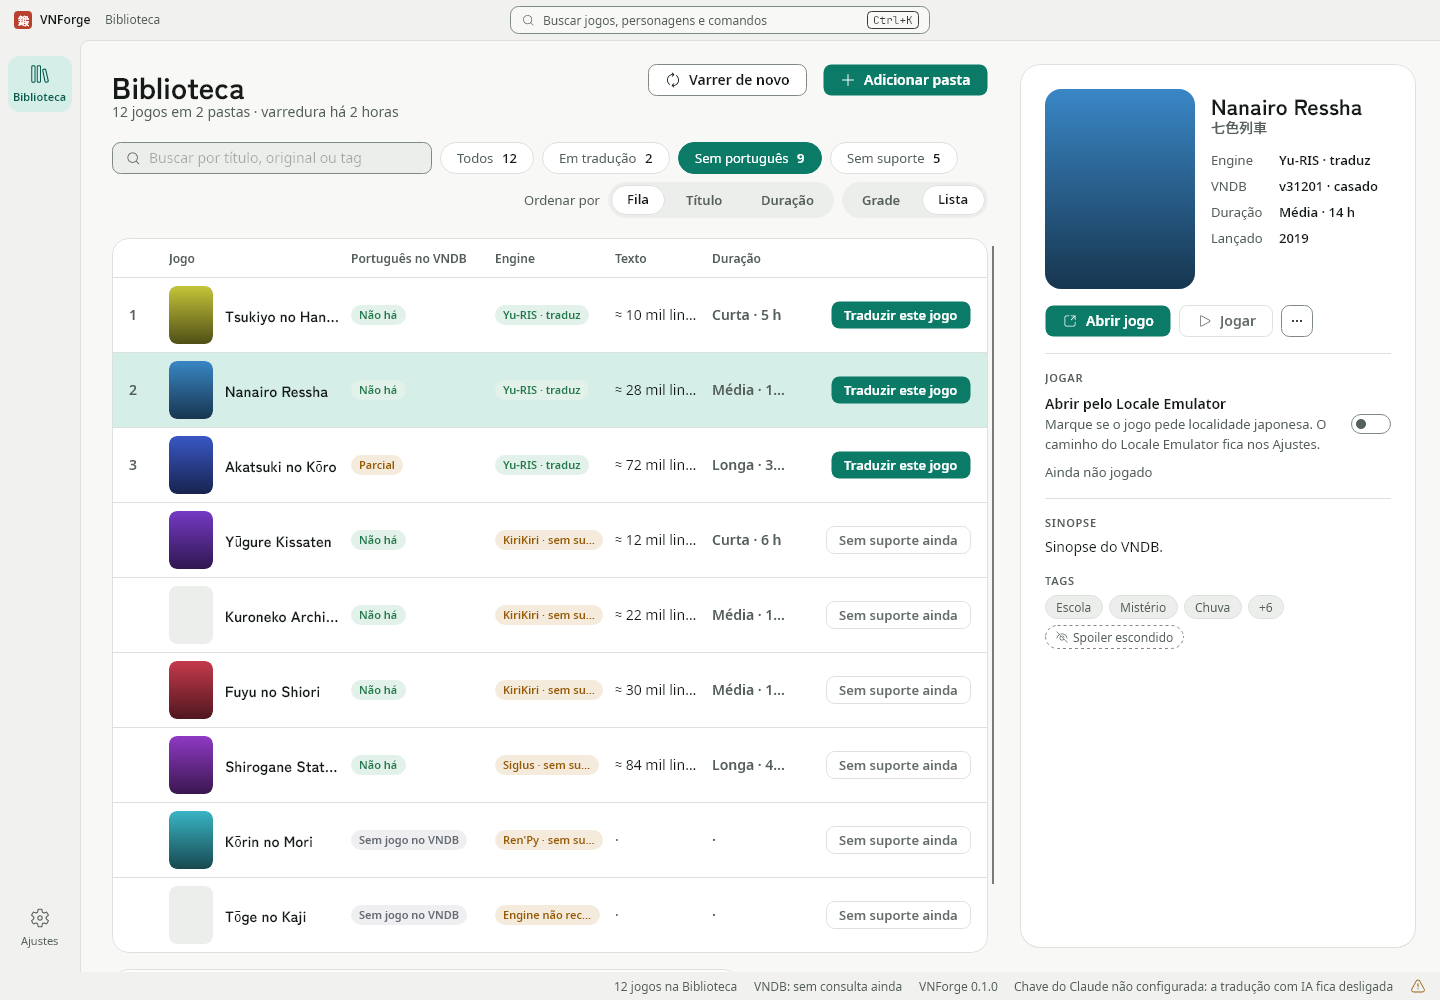
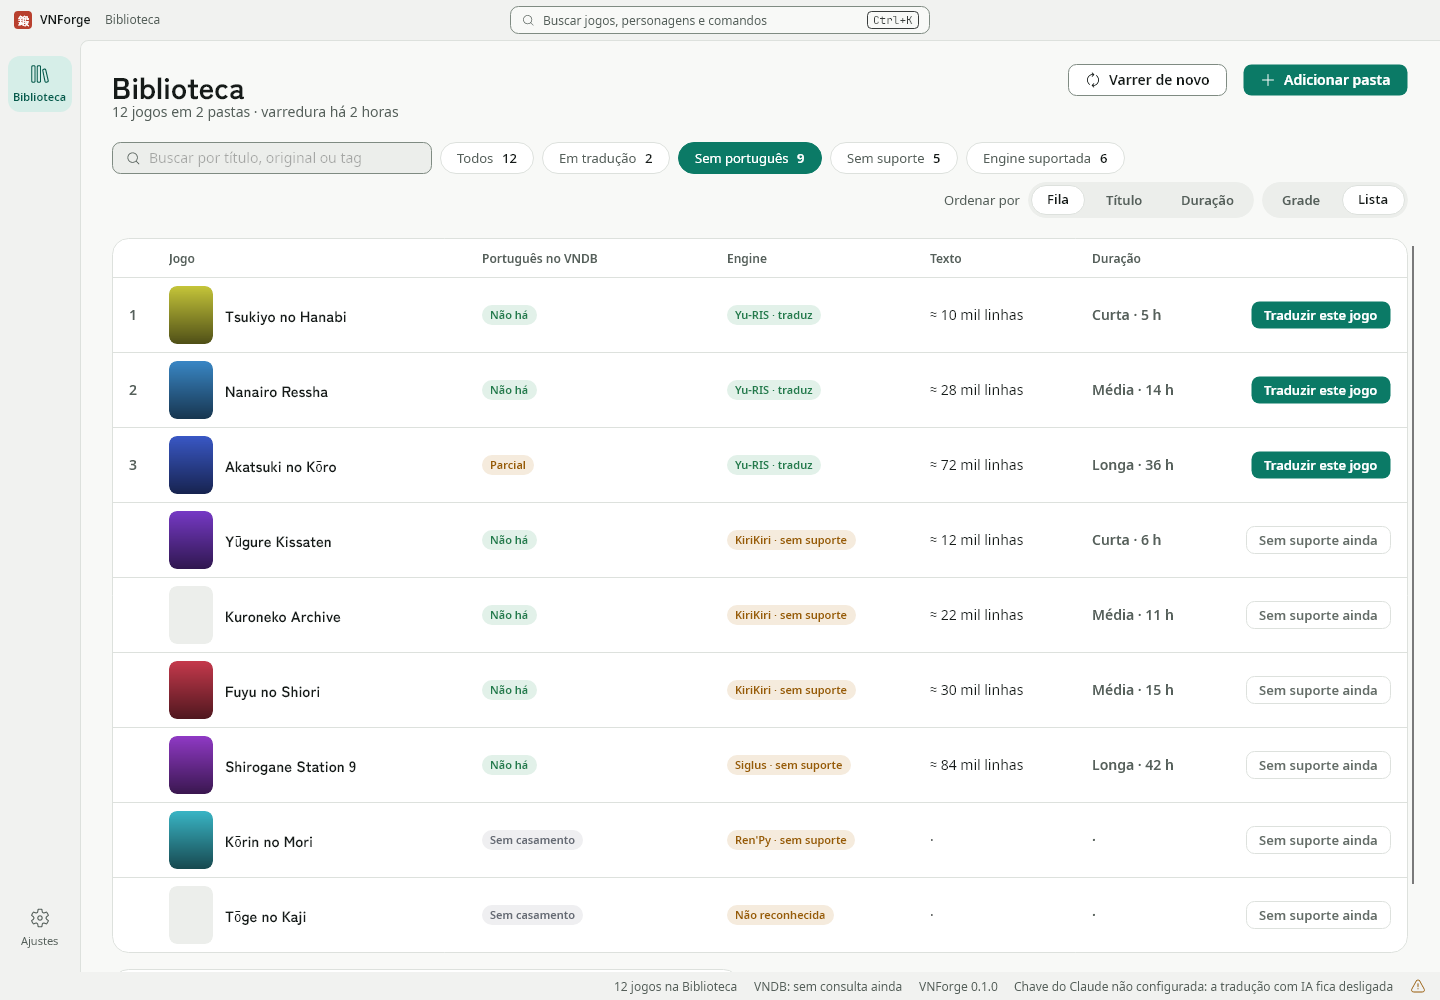
feat: Traduzir este jogo leva o VNDB confirmado ao assistente, chip Engine suportada e colunas da fila que cabem com a gaveta (Refs #551)

diff --git a/src/VNForge.App/ViewModels/NewProjectWizardViewModel.Vndb.cs b/src/VNForge.App/ViewModels/NewProjectWizardViewModel.Vndb.cs
@@ -225,6 +225,7 @@ public sealed partial class NewProjectWizardViewModel
     private readonly Func<VndbLink, string?> translatedSynopsis;
     private VndbLink? confirmedLink;
     private string? vndbSearchedFolder;
+    private string? knownVndbId;
     private CancellationTokenSource? vndbCts;
 
     /// <summary>Os resultados da busca no VNDB, o mais provável primeiro.</summary>
@@ -315,6 +316,18 @@ public sealed partial class NewProjectWizardViewModel
         }
 
         vndbSearchedFolder = GameFolder;
+        if (knownVndbId is { } known)
+        {
+            // O jogo veio da Biblioteca com o casamento já confirmado: traz a ficha direto, sem buscar de novo. Se o VNDB não responde, cai na busca de sempre.
+            knownVndbId = null;
+            if (vndb is not null && await ConfirmAsync(string.Empty, token => VndbProjectLinker.BuildAsync(vndb, known, token)))
+            {
+                return;
+            }
+
+            ErrorMessage = null;
+        }
+
         IsBusy = true;
         string? title = null;
         try
@@ -457,38 +470,47 @@ public sealed partial class NewProjectWizardViewModel
             return;
         }
 
+        await ConfirmAsync(chosen.Title, async token => VndbProjectLinker.From(chosen.Candidate.VisualNovel, await vndb.GetCharactersAsync(chosen.Candidate.VisualNovel.Id, token)));
+    }
+
+    /// <summary>Traz a ficha (<paramref name="load"/>) e mostra o que chega ao projeto. Devolve se chegou à confirmação; no erro volta à lista de resultados.</summary>
+    private async Task<bool> ConfirmAsync(string title, Func<CancellationToken, Task<VndbLink>> load)
+    {
         Stage = VndbStage.Confirming;
         VndbHeadline = "Trazendo os personagens";
-        VndbDetail = chosen.Title;
+        VndbDetail = title;
         IsBusy = true;
         using var cts = vndbCts = new CancellationTokenSource();
         try
         {
-            var characters = await vndb.GetCharactersAsync(chosen.Candidate.VisualNovel.Id, cts.Token);
+            var link = await load(cts.Token);
             if (cts.IsCancellationRequested)
             {
-                return;
+                return false;
             }
 
             var gameNames = await ReadGameNamesAsync(cts.Token);
             if (cts.IsCancellationRequested)
             {
-                return;
+                return false;
             }
 
-            confirmedLink = VndbProjectLinker.From(chosen.Candidate.VisualNovel, characters);
-            Preview = VndbPreview.From(confirmedLink, gameNames, translatedSynopsis(confirmedLink));
+            confirmedLink = link;
+            Preview = VndbPreview.From(link, gameNames, translatedSynopsis(link));
             Stage = VndbStage.Preview;
+            return true;
         }
         catch (OperationCanceledException) when (cts.IsCancellationRequested)
         {
             // Quem cancelou já cuidou do estado.
+            return false;
         }
         catch (VNForgeException e) when (!cts.IsCancellationRequested)
         {
             ErrorMessage = $"{e.Message} Tente de novo ou siga sem o VNDB.";
             Stage = VndbStage.Choosing;
             VndbHeadline = ChoosingHeadline();
+            return false;
         }
         finally
         {
@@ -568,6 +590,15 @@ public sealed partial class NewProjectWizardViewModel
 
         confirmedLink = null;
         Preview = null;
+        if (Candidates.Count == 0)
+        {
+            // A ficha veio direto do casamento da Biblioteca, sem lista de resultados para voltar: oferece buscar.
+            VndbHeadline = "Escolha outro jogo no VNDB";
+            VndbDetail = "Busque por um título ou siga sem o VNDB.";
+            Stage = VndbStage.Empty;
+            return true;
+        }
+
         Stage = VndbStage.Choosing;
         return true;
     }

diff --git a/tests/VNForge.App.Tests/Rendering/LibraryRenderTests.cs b/tests/VNForge.App.Tests/Rendering/LibraryRenderTests.cs
@@ -41,8 +41,8 @@ public sealed class LibraryRenderTests(HeadlessFixture fixture) : IClassFixture<
             Assert.Equal(["Grade", "Lista"], window.GetVisualDescendants().OfType<ListBox>().Single(l => l.Name == "LayoutSwitch").GetVisualDescendants().OfType<TextBlock>().Select(t => t.Text));
 
             var chips = window.GetVisualDescendants().OfType<FilterChip>().ToList();
-            Assert.Equal(["Todos", "Em tradução", "Sem português", "Sem suporte"], chips.Select(c => c.Label));
-            Assert.Equal([12, 2, 9, 5], chips.Select(c => c.Count));
+            Assert.Equal(["Todos", "Em tradução", "Sem português", "Sem suporte", "Engine suportada"], chips.Select(c => c.Label));
+            Assert.Equal([12, 2, 9, 5, 6], chips.Select(c => c.Count));
             Assert.True(chips[0].IsChecked);
 
             foreach (var expected in new[] { "Yu-RIS", "Siglus · sem suporte", "KiriKiri · sem suporte", "Ren'Py · sem suporte", "Engine não reconhecida", "Conteúdo adulto escondido", "18+" })
@@ -231,7 +231,13 @@ public sealed class LibraryRenderTests(HeadlessFixture fixture) : IClassFixture<
 
     [Theory]
     [MemberData(nameof(Themes))]
-    public async Task Lista_mostra_a_fila_de_traducao_com_o_portugues_a_engine_o_texto_e_a_acao(string themeName)
+    public Task Lista_mostra_a_fila_de_traducao_com_o_portugues_a_engine_o_texto_e_a_acao(string themeName) => MostrarFila(themeName, gaveta: false);
+
+    [Theory]
+    [MemberData(nameof(Themes))]
+    public Task Fila_com_a_gaveta_aberta_cabe_sem_reticencias_nas_colunas_de_texto_e_duracao(string themeName) => MostrarFila(themeName, gaveta: true);
+
+    private async Task MostrarFila(string themeName, bool gaveta)
     {
         var theme = ThemeOf(themeName);
         var checkedAt = LibrarySamples.Now.AddHours(-1);
@@ -244,7 +250,10 @@ public sealed class LibraryRenderTests(HeadlessFixture fixture) : IClassFixture<
             library.SelectFilter(LibraryFilter.NoPortuguese);
             library.SelectedSort = library.Sorts[0];
             library.SelectedLayout = library.Layouts[1];
-            library.Select(library.Cards.Single(c => c.Title == "Nanairo Ressha"));
+            if (gaveta)
+            {
+                library.Select(library.Cards.Single(c => c.Title == "Nanairo Ressha"));
+            }
         }, (window, vm) =>
         {
             var texts = Texts(window);
@@ -259,11 +268,11 @@ public sealed class LibraryRenderTests(HeadlessFixture fixture) : IClassFixture<
             }
 
             var rows = window.GetVisualDescendants().OfType<Border>().Where(b => b.IsEffectivelyVisible && b.Classes.Contains("qrow")).ToList();
-            Assert.Single(rows, r => r.Classes.Contains("sel"));
+            Assert.Equal(gaveta ? 1 : 0, rows.Count(r => r.Classes.Contains("sel")));
             Assert.Equal(3, window.GetVisualDescendants().OfType<Button>().Count(b => b.IsEffectivelyVisible && b.Classes.Contains("accent") && b.Classes.Contains("sm")));
 
             ScreenRenderer.Settle(window);
-            ScreenRenderer.Save(window, RenderOutput.PathFor(ScreenRenderer.FileName("biblioteca-fila", theme)));
+            ScreenRenderer.Save(window, RenderOutput.PathFor(ScreenRenderer.FileName(gaveta ? "biblioteca-fila-gaveta" : "biblioteca-fila", theme)));
         }, games: games);
     }
 

diff --git a/src/VNForge.Core/Library/LibraryListing.cs b/src/VNForge.Core/Library/LibraryListing.cs
@@ -18,16 +18,20 @@ public enum LibraryFilter
 
     /// <summary>A engine foi reconhecida por assinatura de arquivo mas o VNForge ainda não a traduz. Engine que nem isso foi reconhecida não entra.</summary>
     Unsupported,
+
+    /// <summary>A engine é uma que o VNForge traduz.</summary>
+    Supported,
 }
 
 /// <summary>A contagem de cada chip de filtro.</summary>
-public sealed record LibraryCounts(int All, int InTranslation, int NoPortuguese, int Unsupported)
+public sealed record LibraryCounts(int All, int InTranslation, int NoPortuguese, int Unsupported, int Supported = 0)
 {
     public int Of(LibraryFilter filter) => filter switch
     {
         LibraryFilter.InTranslation => InTranslation,
         LibraryFilter.NoPortuguese => NoPortuguese,
         LibraryFilter.Unsupported => Unsupported,
+        LibraryFilter.Supported => Supported,
         _ => All,
     };
 }
@@ -44,6 +48,7 @@ public static class LibraryListing
             LibraryFilter.InTranslation => game.ProjectPath is not null && (percent ?? 0) < 100,
             LibraryFilter.NoPortuguese => game.ProjectPath is null && game.CurrentPortuguese?.Status != PortugueseStatus.Complete,
             LibraryFilter.Unsupported => game.Engine.Source == LibraryEngineSource.Signature,
+            LibraryFilter.Supported => game.Engine.Translatable,
             _ => true,
         };
     }
@@ -52,7 +57,7 @@ public static class LibraryListing
     {
         ArgumentNullException.ThrowIfNull(games);
         ArgumentNullException.ThrowIfNull(percentOf);
-        int all = 0, inTranslation = 0, noPortuguese = 0, unsupported = 0;
+        int all = 0, inTranslation = 0, noPortuguese = 0, unsupported = 0, supported = 0;
         foreach (var game in games)
         {
             var percent = percentOf(game);
@@ -60,9 +65,10 @@ public static class LibraryListing
             inTranslation += Matches(game, LibraryFilter.InTranslation, percent) ? 1 : 0;
             noPortuguese += Matches(game, LibraryFilter.NoPortuguese, percent) ? 1 : 0;
             unsupported += Matches(game, LibraryFilter.Unsupported, percent) ? 1 : 0;
+            supported += Matches(game, LibraryFilter.Supported, percent) ? 1 : 0;
         }
 
-        return new LibraryCounts(all, inTranslation, noPortuguese, unsupported);
+        return new LibraryCounts(all, inTranslation, noPortuguese, unsupported, supported);
     }
 
     /// <summary>

diff --git a/tests/VNForge.App.Tests/NewProjectWizardVndbTests.cs b/tests/VNForge.App.Tests/NewProjectWizardVndbTests.cs
@@ -65,6 +65,29 @@ public sealed class NewProjectWizardVndbTests : IDisposable
     }
 
     [Fact]
+    public async Task Jogo_da_Biblioteca_com_casamento_confirmado_traz_a_ficha_direto_sem_buscar_e_Voltar_oferece_a_busca()
+    {
+        var catalog = Catalog(Vn("v1", "Amaoto no Hakoniwa", Title), Vn("v2", "Outro", "別の"));
+        var vm = Create(catalog);
+        await vm.SetGameFolderAsync(game, "v1");
+        vm.SetProjectDirectory(Path.Combine(temp.Path, "minha-vn"));
+
+        await vm.NextCommand.ExecuteAsync(null);
+
+        Assert.Equal(WizardStep.Vndb, vm.Step);
+        Assert.Equal(VndbStage.Preview, vm.Stage);
+        Assert.Equal("v1", vm.ConfirmedVndb?.VisualNovelId);
+        Assert.Equal("Amaoto no Hakoniwa, v1", vm.Preview!.Label);
+        Assert.DoesNotContain(catalog.Calls, c => c.Contains("Search", StringComparison.Ordinal));
+
+        vm.BackCommand.Execute(null);
+
+        Assert.Equal(VndbStage.Empty, vm.Stage);
+        Assert.Null(vm.ConfirmedVndb);
+        Assert.Equal(WizardStep.Vndb, vm.Step);
+    }
+
+    [Fact]
     public async Task Sem_resultado_que_combine_com_a_pasta_nada_vem_marcado_e_avancar_espera_a_escolha()
     {
         var vm = await AtVndbStepAsync(Catalog(Vn("v1", "Outro titulo", "雨音の箱庭 外伝")));

diff --git a/src/VNForge.App/ViewModels/LibraryQueueRowViewModel.cs b/src/VNForge.App/ViewModels/LibraryQueueRowViewModel.cs
@@ -23,7 +23,7 @@ public sealed class LibraryQueueRowViewModel(LibraryCardViewModel card, Translat
         PortugueseStatus.Partial => "Parcial",
         PortugueseStatus.Complete => "Completa",
         _ when Entry.Game.IsConfirmed => "Não conferido",
-        _ => "Sem jogo no VNDB",
+        _ => "Sem casamento",
     };
 
     /// <summary>O tom da pílula, na chave que o estilo <c>lib-pill</c> lê: o que ainda falta traduzir é "ok" (verde), o que já existe em parte ou por inteiro é "warn".</summary>
@@ -34,7 +34,12 @@ public sealed class LibraryQueueRowViewModel(LibraryCardViewModel card, Translat
         _ => string.Empty,
     };
 
-    public string EngineText => Entry.Game.Engine.Translatable ? $"{Entry.Game.Engine.Name} · traduz" : LibraryCards.ChipText(Entry.Game.Engine);
+    public string EngineText => Entry.Game.Engine.Source switch
+    {
+        LibraryEngineSource.Engine => $"{Entry.Game.Engine.Name} · traduz",
+        LibraryEngineSource.Signature => LibraryCards.ChipText(Entry.Game.Engine),
+        _ => "Não reconhecida",
+    };
 
     public string EngineTone => Entry.Game.Engine.Translatable ? "ok" : "warn";
 

diff --git a/src/VNForge.App/ViewModels/MainWindowViewModel.cs b/src/VNForge.App/ViewModels/MainWindowViewModel.cs
@@ -834,7 +834,7 @@ public sealed partial class MainWindowViewModel : ObservableObject
     }
 
     /// <summary>Troca a página pelo assistente de novo projeto; ao terminar ou cancelar volta ao Início, e um projeto criado é aberto.</summary>
-    private void ShowWizard(Func<NewProjectWizardViewModel>? create, string? gameFolder = null)
+    private void ShowWizard(Func<NewProjectWizardViewModel>? create, string? gameFolder = null, string? vndbId = null)
     {
         if (create is null)
         {
@@ -845,7 +845,7 @@ public sealed partial class MainWindowViewModel : ObservableObject
         wizard.PropertyChanged += OnWizardVndbChanged;
         if (gameFolder is not null)
         {
-            WizardPreparing = wizard.SetGameFolderAsync(gameFolder);
+            WizardPreparing = wizard.SetGameFolderAsync(gameFolder, vndbId);
         }
 
         wizard.BudgetSaved += (_, _) => Settings.ReloadAppSettings();

diff --git a/tests/VNForge.App.Tests/LibraryViewModelTests.cs b/tests/VNForge.App.Tests/LibraryViewModelTests.cs
@@ -68,8 +68,8 @@ public sealed class LibraryViewModelTests : IDisposable
         Assert.True(vm.HasGames);
         Assert.Equal(12, vm.Cards.Count);
         Assert.Equal("Akatsuki no Kōro", vm.Cards[0].Title);
-        Assert.Equal(["Todos", "Em tradução", "Sem português", "Sem suporte"], vm.Filters.Select(f => f.Label));
-        Assert.Equal([12, 2, 9, 5], vm.Filters.Select(f => f.Count));
+        Assert.Equal(["Todos", "Em tradução", "Sem português", "Sem suporte", "Engine suportada"], vm.Filters.Select(f => f.Label));
+        Assert.Equal([12, 2, 9, 5, 6], vm.Filters.Select(f => f.Count));
         Assert.Equal("12 jogos em 2 pastas · varredura há 2 horas", vm.Subtitle);
         Assert.Equal("12 jogos na Biblioteca", vm.StatusText);
         Assert.Null(vm.ErrorMessage);

diff --git a/tests/VNForge.Core.Tests/Library/LibraryScreenModelsTests.cs b/tests/VNForge.Core.Tests/Library/LibraryScreenModelsTests.cs
@@ -252,6 +252,9 @@ public sealed class LibraryScreenModelsTests
         Assert.Equal(3, counts.NoPortuguese);
         Assert.Equal(2, counts.Unsupported);
         Assert.Equal([6, 1, 3, 2], [counts.Of(LibraryFilter.All), counts.Of(LibraryFilter.InTranslation), counts.Of(LibraryFilter.NoPortuguese), counts.Of(LibraryFilter.Unsupported)]);
+        var games = Collection();
+        Assert.Equal(games.Count(g => g.Engine.Translatable), counts.Of(LibraryFilter.Supported));
+        Assert.All(LibraryListing.Filter(games, LibraryFilter.Supported, null, Percent, null, Hidden), g => Assert.True(g.Engine.Translatable));
     }
 
     [Fact]

diff --git a/src/VNForge.App/ViewModels/LibraryViewModel.cs b/src/VNForge.App/ViewModels/LibraryViewModel.cs
@@ -112,6 +112,7 @@ public sealed partial class LibraryViewModel : ObservableObject
             new LibraryFilterChipViewModel(LibraryFilter.InTranslation, "Em tradução"),
             new LibraryFilterChipViewModel(LibraryFilter.NoPortuguese, "Sem português"),
             new LibraryFilterChipViewModel(LibraryFilter.Unsupported, "Sem suporte"),
+            new LibraryFilterChipViewModel(LibraryFilter.Supported, "Engine suportada"),
         ];
         Match = new LibraryMatchViewModel(this);
         Scan.PropertyChanged += (_, e) =>

diff --git a/src/VNForge.App/ViewModels/NewProjectWizardViewModel.cs b/src/VNForge.App/ViewModels/NewProjectWizardViewModel.cs
@@ -294,9 +294,10 @@ public sealed partial class NewProjectWizardViewModel : ObservableObject
     public event EventHandler? Cancelled;
 
     /// <summary>Roda a detecção na pasta do jogo e mostra o que achou. Falha mostra <see cref="ErrorMessage"/> e não avança.</summary>
-    public async Task SetGameFolderAsync(string path)
+    public async Task SetGameFolderAsync(string path, string? vndbId = null)
     {
         ErrorMessage = null;
+        knownVndbId = vndbId;
         ResetVndb();
         IsBusy = true;
         try

diff --git a/tests/VNForge.App.Tests/LibraryQueueTests.cs b/tests/VNForge.App.Tests/LibraryQueueTests.cs
@@ -77,7 +77,7 @@ public sealed class LibraryQueueTests : IDisposable
         Assert.False(started.IsTranslate);
 
         var unmatched = Row(vm, "Kōrin no Mori");
-        Assert.Equal("Sem jogo no VNDB", unmatched.PortugueseText);
+        Assert.Equal("Sem casamento", unmatched.PortugueseText);
         Assert.Equal("·", unmatched.TextEstimate);
         Assert.Equal("·", unmatched.Duration);
     }

diff --git a/src/VNForge.App/ViewModels/MainWindowViewModel.Shell.cs b/src/VNForge.App/ViewModels/MainWindowViewModel.Shell.cs
@@ -189,7 +189,7 @@ public sealed partial class MainWindowViewModel
         }
         else if (game.Engine.Translatable)
         {
-            ShowWizard(newProjectWizard, game.Folder);
+            ShowWizard(newProjectWizard, game.Folder, game.VndbId);
         }
         else
         {
